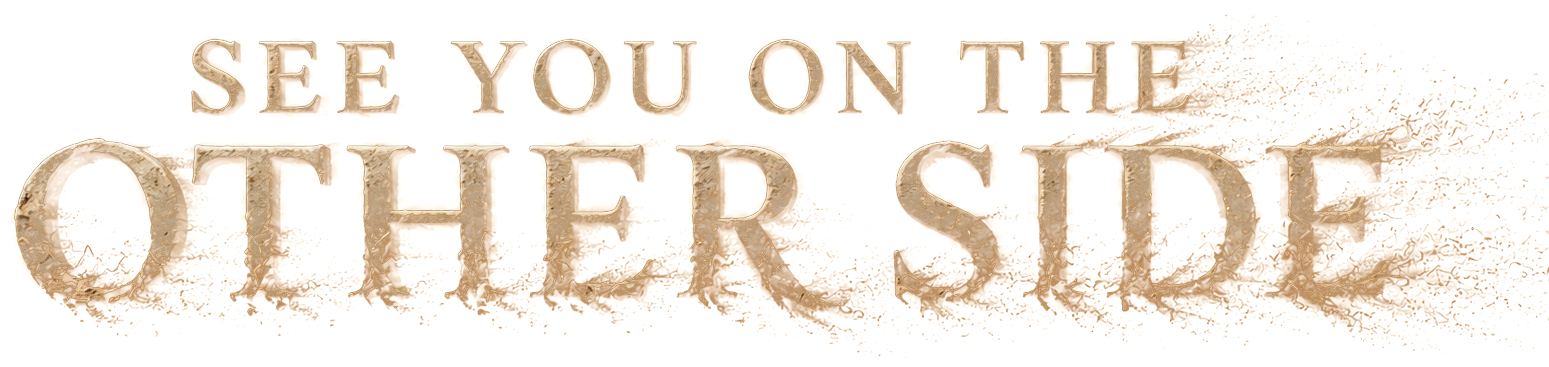
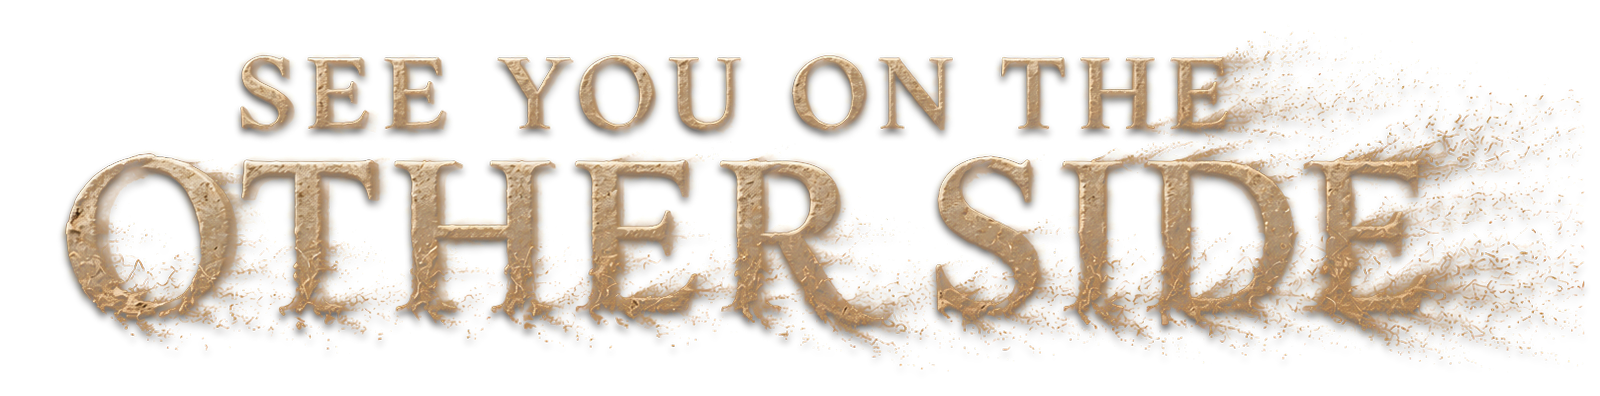
fix(ui): 로고 광학 중심 정렬 + 그림자 굽기(타이틀 가독)
- black_key.gd ⑤그림자 굽기(알파 블러판 아래 5px, 밝은 키아트 위 윤곽) ⑥광학 중심 정렬
  (열/행 알파 밀도로 본체만 잡아 중앙 보정 — 뿌림이 bbox 를 늘려 글자가 밀리던 것)
- 80(좌36px)·81(좌51px·하47px) 재생성, 스크린샷 확인
- 본체 판정은 alpha 등급으론 불가(뿌림 입자도 1.0) — 밀도 기준 채택

diff --git a/session_logs/2026-07-18.md b/session_logs/2026-07-18.md
@@ -89,3 +89,27 @@
 
 ### 검증
 - 부팅 스모크 통과(베이스라인 노이즈만).
+
+## 세션 5 — 로고 폴리시 (사용자 피드백 2건)
+
+### 요약
+로고가 글자 중심이 아니라 이미지 bbox 중심으로 정렬돼 옆으로 밀려 보이는 것과, 타이틀 키아트
+(밝은 세피아 구름)와 색이 비슷해 가독이 약한 것을 고쳤다. 둘 다 에셋 파이프라인(black_key)에서 해결.
+
+### 주요 변경
+- `scripts/tools/black_key.gd` — 두 단계 추가:
+  - **⑤ 그림자 굽기**: 알파 채널을 분리형 박스 블러(3px×3회)해 아래로 5px 민 어두운 판을 밑에 src-over.
+    웹 셰이더 금지 제약이라 런타임 블러 대신 에셋에 굽는다. 어두운 배경(오프닝)에선 안 보여 무해.
+  - **⑥ 광학 중심 정렬**: 열/행 알파 밀도(최대치의 10% 이상)로 본체 구간을 잡아, 본체 중심이 캔버스
+    중심에 오게 투명 여백을 비대칭 추가. 80: 좌36px, 81: 좌51px·하47px 보정.
+- `assets/arts/80·81` 재생성·재임포트(임포트 파라미터 불변).
+
+### 결정 사항
+- 본체 판정은 픽셀 alpha 로 안 된다 — 모래 뿌림 입자가 밝아서 alpha 1.0(본체와 동급). 밀도(글자 열은
+  빽빽, 뿌림 열은 성김)로만 갈라진다. 1차 시도(alpha≥0.95 bbox)는 보정 10px 로 무의미해 폐기.
+- 타이틀 가독은 그림자 굽기로 충분해 Main.gd 글로우(스펙 0.55)는 안 건드림 — 키아트 하늘을 더
+  어둡히면 그림 맛이 죽는다.
+
+### 검증
+- 창모드 스크린샷 2장: 오프닝(글자 중심 안착)·타이틀(그림자로 윤곽 서는 것) 확인. 부팅 스모크 통과.
+- Opening.gd 는 동시 세션(opening-rewrite)이 잡고 있어 미포함(내 이전 변경은 그쪽 편집에 보존됨).

diff --git a/docs/external/art_prompts.md b/docs/external/art_prompts.md
@@ -963,6 +963,8 @@ no checkerboard, no border, no frame, no emblem, no scenery, no misspelling.
 - A안·B안 두 장 모두 채택: **80 글자판 = 타이틀 화면**(키아트에 수평선이 이미 있어 지평선 없는 판),
   **81 행렬판 = 오프닝 제목 카드**(어두운 맨 배경 + 행렬이 슬라이드 서사를 받는다). 원본은 arts_originals.
 - 검정→투명 변환 도구: `scripts/tools/black_key.gd` (alpha_key 의 자매 — 밝기 램프 언프리멀티플라이 +
-  내부 구멍 메움 + O 속 구멍 재분류 + 크롭 + 1600px 다이어트). 실행법은 파일 헤더.
+  내부 구멍 메움 + O 속 구멍 재분류 + 크롭 + **그림자 굽기**(밝은 키아트 가독, 셰이더 금지라 에셋에 굽는다) +
+  **광학 중심 정렬**(열/행 알파 밀도로 본체만 잡아 중앙 보정 — 한쪽으로 뻗는 뿌림이 정렬을 밀던 것,
+  2026-07-18 사용자 지적 2건 반영) + 1600px 다이어트). 실행법은 파일 헤더.
 - 임포트: lossy webp 0.8 + 밉맵(타이틀 띠에서 3배 축소되므로 앨리어싱 방지).
 - 주제목(세계의 이름)이 나중에 정해지면 록업 위에 작게 얹는다 — 기획서 §7, backlog 참조.
